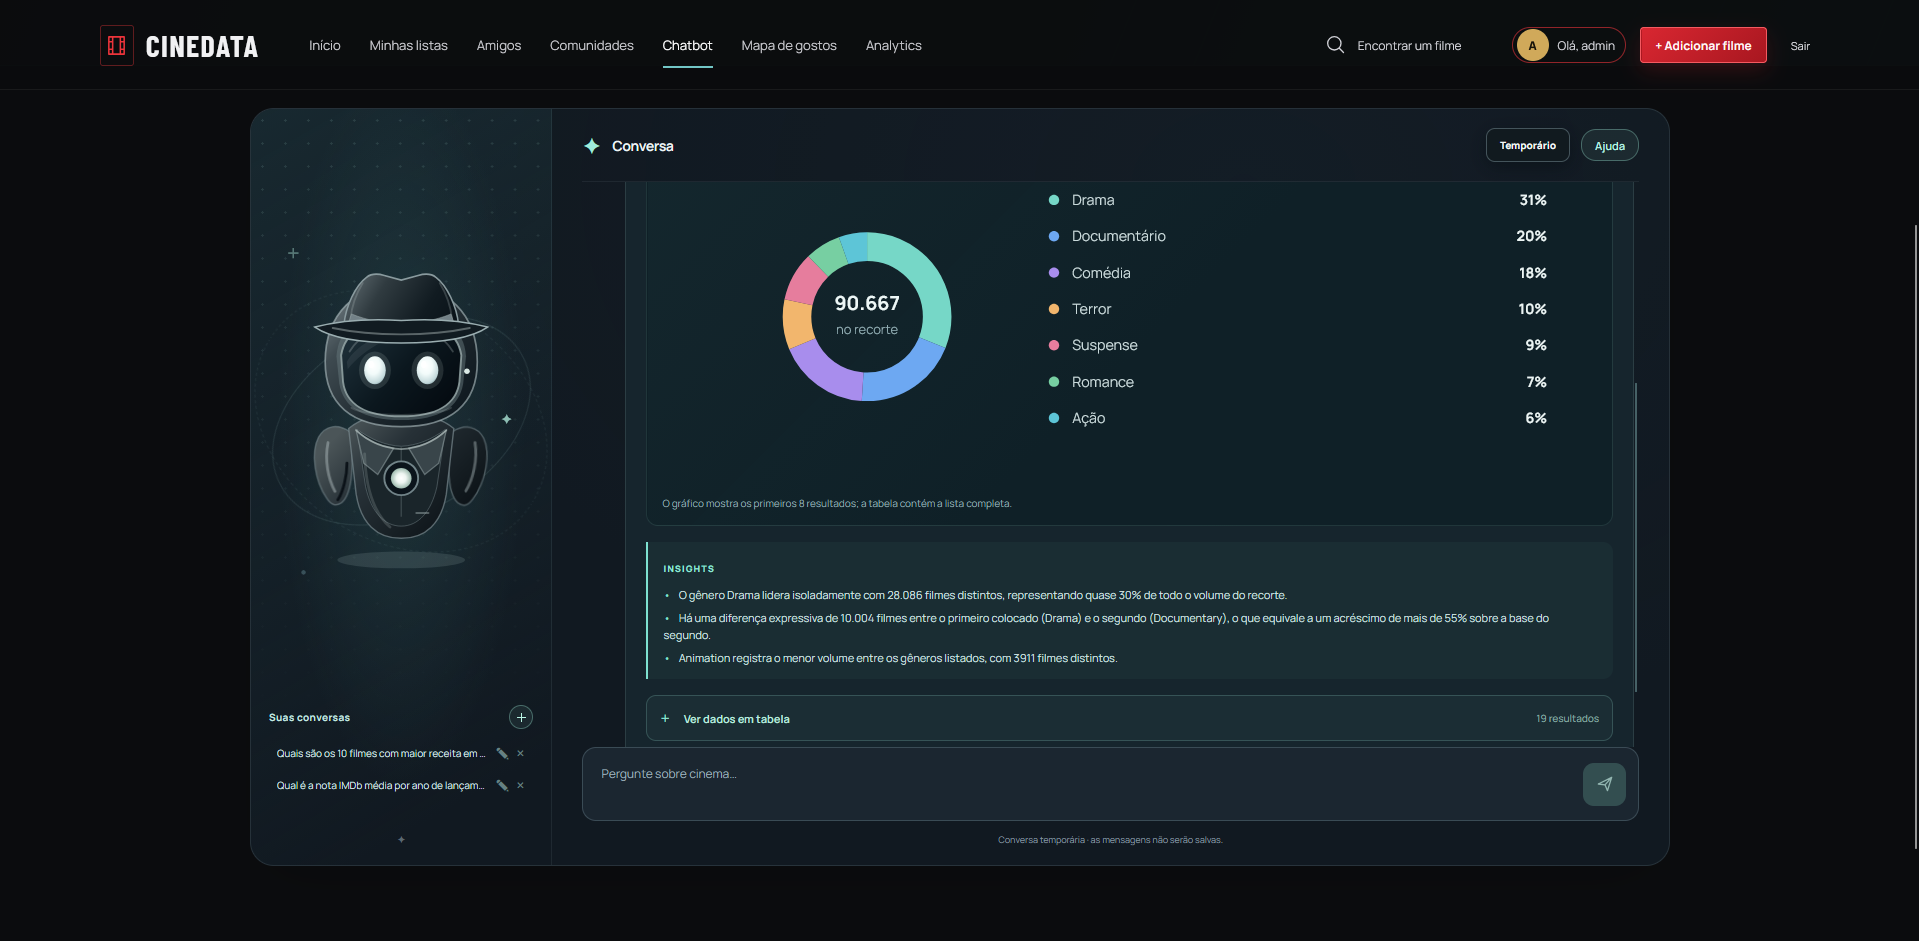
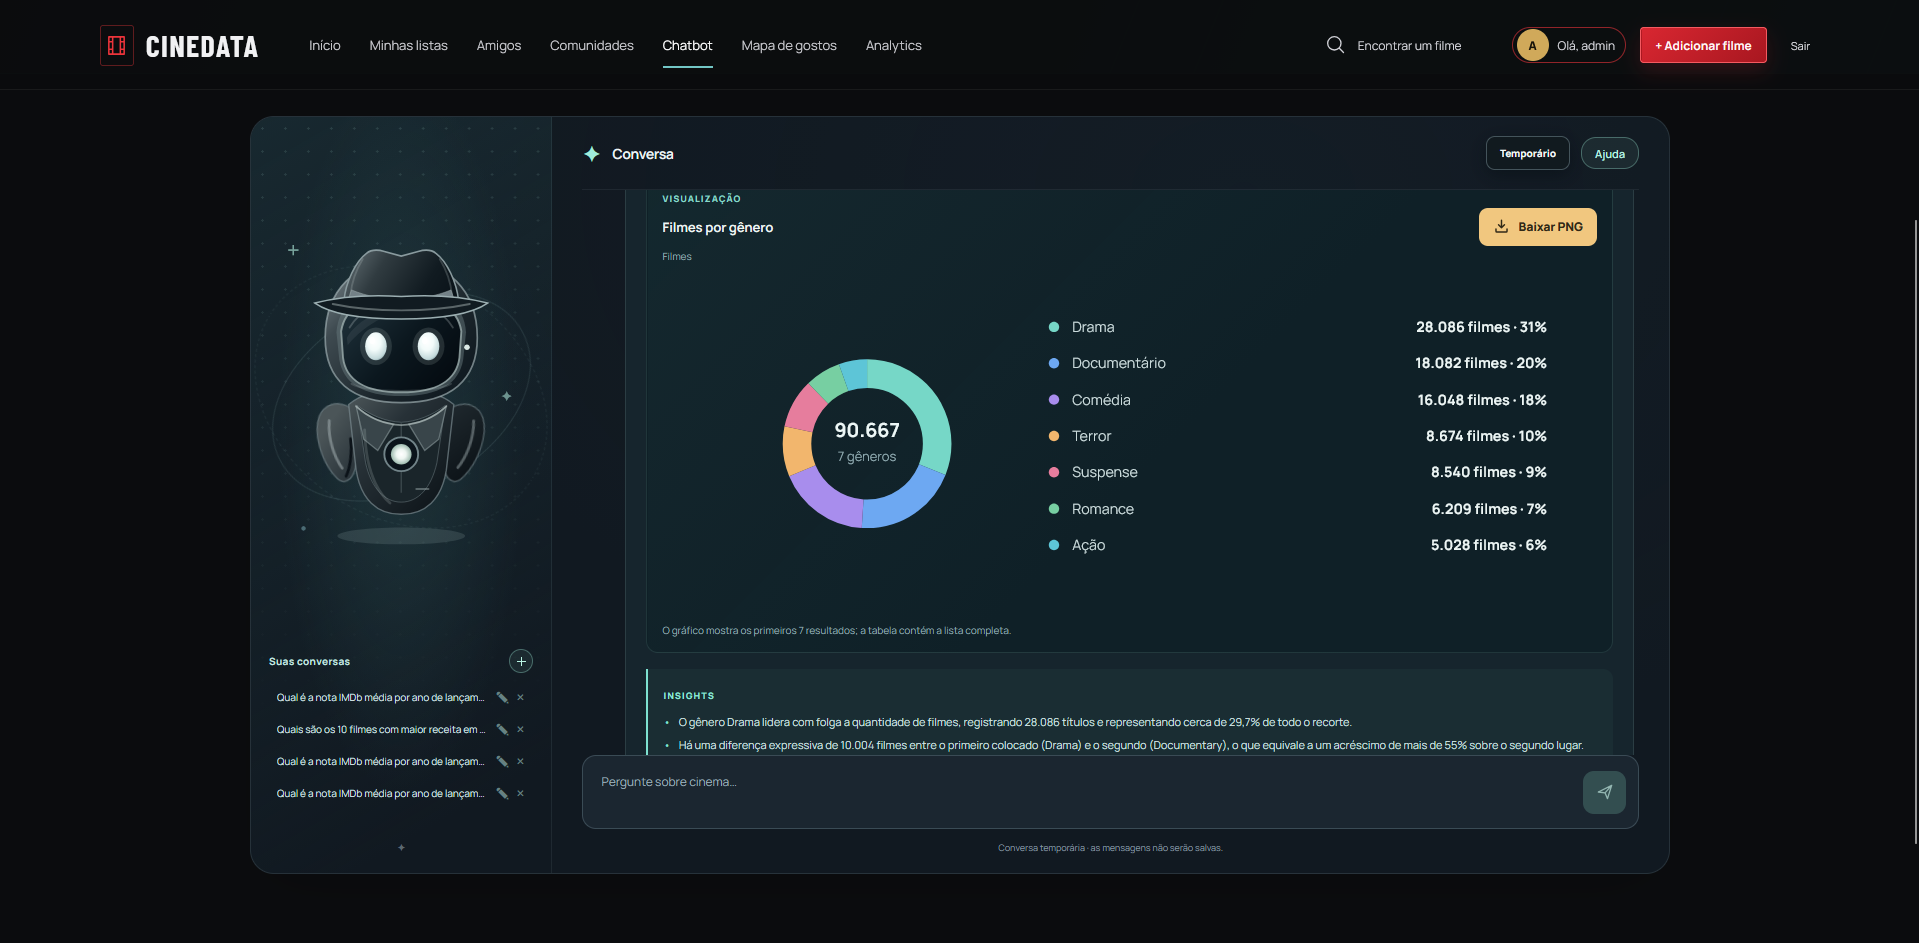
docs(genai): atualiza explicação do agente e capturas com dados

diff --git a/README.md b/README.md
@@ -25,15 +25,17 @@ O chatbot é o núcleo desta entrega. Ele recebe uma pergunta em português,
 identifica se ela pede uma métrica, um ranking, uma comparação ou filmes por
 descrição e retorna a evidência correspondente.
 
-O agente usa consultas preparadas nos casos reconhecidos ou pede ao Gemini que
-acione a ferramenta `run_sql`. Perguntas descritivas podem procurar termos em
-títulos e sinopses; se também pedirem uma métrica, os filmes encontrados servem
-de recorte para uma consulta analítica.
+O agente pede ao Gemini que gere SQL pela ferramenta `run_sql` nas perguntas
+livres e em parte dos casos da avaliação. Algumas rotas frequentes ainda usam
+SQL preparado para reduzir a latência. Perguntas descritivas podem procurar
+termos em títulos e sinopses; se também pedirem uma métrica, os filmes
+encontrados servem de recorte para uma consulta analítica.
 
 A chave Gemini habilita as consultas de dados do chatbot. Casos reconhecidos
-podem executar SQL preparado sem chamar o modelo a cada resposta; perguntas
-livres usam Gemini para interpretar a solicitação. A interface informa quando
-a chave ainda não foi configurada.
+podem executar SQL preparado sem chamar o modelo a cada resposta. Nas perguntas
+de divergência de notas, média IMDb por ano e filmes por gênero, o modelo gera
+a consulta primeiro; uma consulta de referência confere o resultado e recupera
+falhas. A interface informa quando a chave ainda não foi configurada.
 
 ```mermaid
 flowchart TB
@@ -42,7 +44,7 @@ flowchart TB
     R -->|Filmes por descrição| S[Busca em títulos e sinopses]
     R -->|Métricas e rankings| A[Agente analítico]
     S -.->|Se também pedir uma métrica| A
-    A --> M[SQL preparado ou Gemini com tool calling]
+    A --> M[Gemini com run_sql ou rota preparada]
     M --> V[Validação e execução somente leitura]
     S --> F[Resposta no chatbot]
     V --> F
@@ -186,7 +188,7 @@ etapa não concede ao modelo acesso direto ao banco:
 | --- | --- |
 | Contrato HTTP | Aceita pergunta não vazia de até 1.000 caracteres e no máximo três resumos de contexto. |
 | Filtro de entrada | Normaliza maiúsculas e acentos e bloqueia prompt injection, revelação de instruções, SQL explícito e pedidos para consultar URLs, internet ou fontes externas. |
-| Ferramenta do modelo | O Gemini recebe somente a ferramenta `run_sql`; ele não recebe uma conexão SQLite nem credenciais do banco. Perguntas obrigatórias reconhecidas usam SQL preparado pelo serviço. |
+| Ferramenta do modelo | O Gemini recebe somente a ferramenta `run_sql`; ele não recebe uma conexão SQLite nem credenciais do banco. As perguntas de divergência de notas, média IMDb por ano e filmes por gênero são geradas pelo modelo e conferidas contra consultas de referência. Outras rotas reconhecidas podem usar SQL preparado. |
 | Validador SQL | `sqlglot` aceita uma única instrução `SELECT` ou `UNION`, com até 16.000 caracteres, oito CTEs, oito `JOINs`, doze subconsultas e 100 linhas. CTE recursiva, `CROSS JOIN`, outro banco, tabelas fora do contrato e funções como `load_extension`, `readfile`, `writefile`, `randomblob` e `zeroblob` são rejeitados. |
 | Executor SQLite | Abre o arquivo com `mode=ro`, limita a duração da consulta e usa o autorizador nativo do SQLite para negar `INSERT`, `UPDATE`, `DELETE`, `DROP`, `ATTACH`, `DETACH`, `PRAGMA` e leitura de tabelas que não pertencem à Gold. |
 
@@ -258,9 +260,15 @@ pergunta, a conversa, o contexto, a revisão do banco analítico e a versão das
 regras. Assim, uma continuação diferente ou dados atualizados não recebem uma
 resposta antiga; o cache desaparece quando o serviço reinicia.
 
+As perguntas obrigatórias Q05, Q06, Q10 e Q14, quando usadas na formulação
+exata da Ajuda, compartilham o resultado entre conversas durante esse período.
+Elas consultam o mesmo recorte público da Gold; os insights permanecem na
+resposta reutilizada. As demais perguntas continuam isoladas por conversa.
+
 Na prática, a chave é um hash SHA-256 da pergunta normalizada, identificador da
-conversa, até três resumos semânticos, tamanho e data de modificação da Gold e
-versão das regras. O serviço mantém até 100 respostas bem-sucedidas em memória;
+conversa (ou do caso fixo), até três resumos semânticos, tamanho e data de
+modificação da Gold e versão das regras. O serviço mantém até 100 respostas
+bem-sucedidas em memória;
 o texto da pergunta não é usado como identificador em claro. Não há cache
 persistente nem compartilhado depois de reiniciar o contêiner.
 

diff --git a/genai/README.md b/genai/README.md
@@ -21,6 +21,12 @@ A chave Gemini habilita todas as consultas a dados, inclusive as que usam SQL
 preparado ou busca local. Sua presença não significa que toda resposta faça
 uma chamada ao modelo.
 
+Nas perguntas de divergência de notas, média IMDb por ano e filmes por gênero,
+o Gemini recebe o esquema e as regras da métrica para gerar o SQL. O serviço
+compara as linhas retornadas com uma consulta de referência e a usa somente se
+a geração ou a conferência falhar. Outras rotas reconhecidas podem usar SQL
+preparado, enquanto perguntas livres dependem do SQL gerado pelo modelo.
+
 ## Segurança e disponibilidade
 
 - somente uma instrução `SELECT` sobre tabelas e colunas autorizadas;
@@ -55,8 +61,9 @@ se as consultas analíticas estão disponíveis, sem expor a chave.
 
 `context` é opcional, tem no máximo três resumos da conversa atual e permite
 continuações como “e em 2020?”. `conversation_id` é um identificador local do
-frontend usado somente para separar o cache; o histórico persistente pertence
-ao backend principal. O contrato completo está em
+frontend usado para separar o cache das perguntas livres; Q05, Q06, Q10 e Q14
+canônicas compartilham a resposta pública por até cinco minutos. O histórico
+persistente pertence ao backend principal. O contrato completo está em
 [docs/genai/api-contract.md](../docs/genai/api-contract.md).
 
 Uma resposta de sucesso contém `answer`, `rows`, `insights` e `metadata`.
